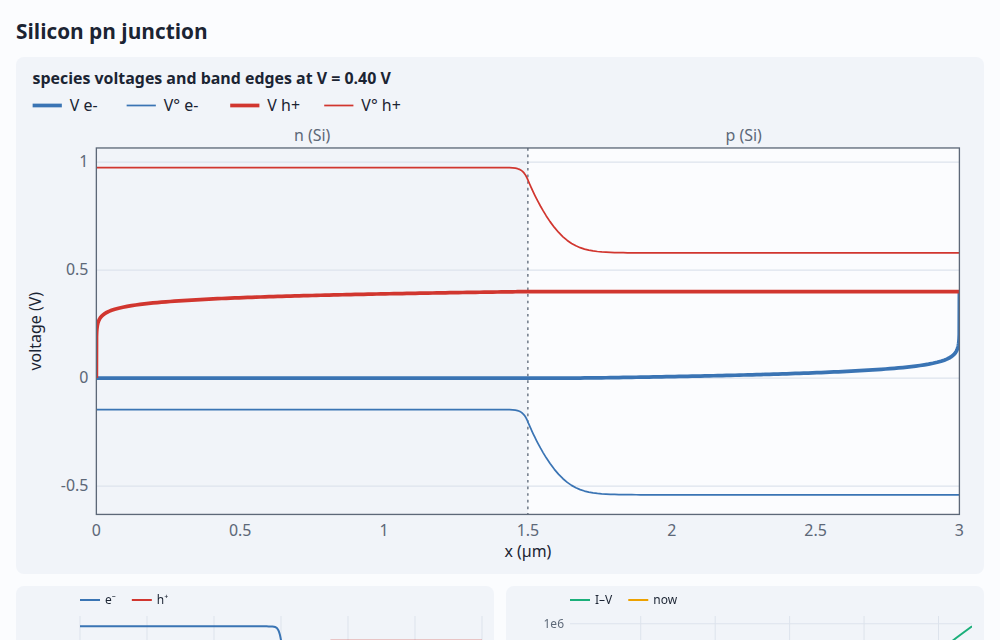
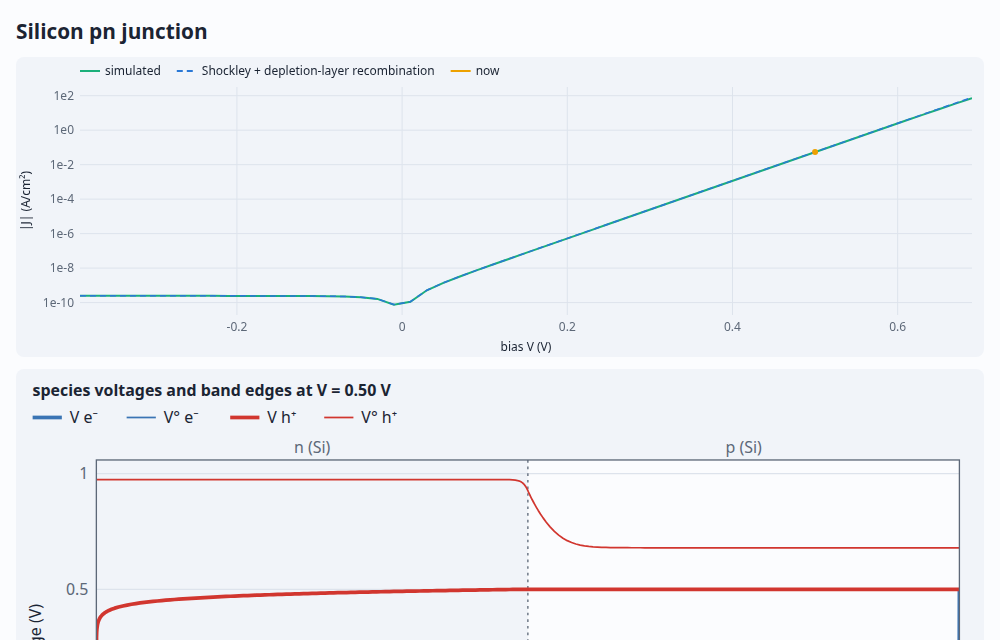
pn demo: a lifetime control from short diode to long, the I–V against Shockley's law, aligned carrier densities

diff --git a/demos/pn.html b/demos/pn.html
@@ -9,77 +9,111 @@
 <body>
 <main>
   <h1>Silicon pn junction</h1>
-  <p>Electrons and holes are ordinary species. Solid lines are their species voltages
-    V<sub>i</sub> = μ̄<sub>i</sub>/(z<sub>i</sub>F), the quasi-Fermi levels; dashed lines are their standard
+  <p>Electrons and holes are ordinary species. Thick lines are their species voltages
+    V<sub>i</sub> = μ̄<sub>i</sub>/(z<sub>i</sub>F), the quasi-Fermi levels; thin lines are their standard
     levels V°<sub>i</sub>, the band edges (in voltage units the conduction band sits below the valence band).
-    The bias moves the p side's metal contact: forward bias splits the quasi-Fermi levels across the junction,
-    and the carriers recombine as they cross.</p>
+    The bias moves the p side's metal contact: forward bias splits the quasi-Fermi levels across the
+    junction, and the carriers recombine as they cross, in the layers or at the contacts.</p>
+  <p>The lifetime control sets band-to-band recombination. With a long lifetime the minority carriers'
+    diffusion length L far exceeds the 1.5 µm layers: they cross to the contacts and recombine there (a short
+    diode). With a short one, L shrinks below the layer
+    thickness and they recombine inside (a long diode). Shockley's law covers both, with the current
+    J₀(e<sup>V/V<sub>T</sub></sup> − 1) and J₀ = qn<sub>i</sub>²[D<sub>n</sub>/(N<sub>A</sub>L<sub>n</sub>) coth(W<sub>p</sub>/L<sub>n</sub>) + D<sub>p</sub>/(N<sub>D</sub>L<sub>p</sub>) coth(W<sub>n</sub>/L<sub>p</sub>)],
+    plus the recombination in the depletion layer (dashed). It holds to a few percent until the current is
+    large, where series resistance and rising injection bend the curve below it.</p>
   <div class="controls">
     <label>bias V <input id="V" type="range" min="-1" max="0.7" step="0.01" value="0.3"><output id="Vout"></output></label>
+    <label>lifetime <input id="kf" type="range" min="8" max="12" step="0.5" value="8"><output id="kfOut"></output></label>
     <span class="readout" id="I"></span>
   </div>
   <div class="grid">
+    <canvas class="wide" id="iv"></canvas>
     <div class="levels wide" id="levels"></div>
-    <canvas id="conc"></canvas>
-    <canvas id="iv"></canvas>
+    <div class="levels wide" id="conc"></div>
   </div>
 </main>
 <script type="module">
-import { Device, units } from '../src/index.js';
+import { Device, units, EPS0, FARADAY, GAS_CONSTANT, AVOGADRO } from '../src/index.js';
 import { build, layer, ohmic, semiconductor, live } from '../src/kit.js';
 import { chart, colors } from './plot.js';
-import { levels, showCode, fromQuery, speciesColor } from './common.js';
+import { levels, profiles, showCode, fromQuery } from './common.js';
 
+const Si = semiconductor('Si'), W = units.um(1.5), ND = units.perCm3(1e17), NA = units.perCm3(1e16);
+const recombination = (kf) => [{ equation: 'e- + h+ = 0', kf: { Si: kf } }]; // band to band
 // The device, as it's drawn: a contact, n-type silicon, p-type silicon, a contact.
-const def = build({
-  T: 300, // the library's silicon data (Sze) are for 300 K
-  library: [semiconductor('Si')],
-  stack: [
-    ohmic(0), // e⁻ and h⁺ in equilibrium with the metal
-    layer('Si', units.um(1.5), { name: 'n', donors: units.perCm3(1e17) }),
-    layer('Si', units.um(1.5), { name: 'p', acceptors: units.perCm3(1e16) }),
-    ohmic(0), // its voltage is the bias
-  ],
-  // Band-to-band recombination: a minority lifetime τ = 1/(kf·N) ≈ 0.6 µs at 1e16 cm⁻³.
-  bulkReactions: [{ equation: 'e- + h+ = 0', kf: { Si: 1e8 } }],
-  grid: { hmin: units.nm(0.5), hmax: units.nm(15) },
-});
+const diode = (kf) =>
+  build({
+    T: 300, // the library's silicon data (Sze) are for 300 K
+    library: [Si],
+    stack: [
+      ohmic(0), // e⁻ and h⁺ in equilibrium with the metal
+      layer('Si', W, { name: 'n', donors: ND }),
+      layer('Si', W, { name: 'p', acceptors: NA }),
+      ohmic(0), // its voltage is the bias
+    ],
+    bulkReactions: recombination(kf),
+    grid: { hmin: units.nm(0.5), hmax: units.nm(15) },
+  });
 
-// The I–V curve, once: a plain Device swept in bias, each solve warm from the last.
-const sweep = new Device(def), iv = { V: [], I: [] };
-for (let V = -0.39; V <= 0.701; V += 0.02) {
-  sweep.set({ contacts: { right: { V } } });
-  iv.V.push(V);
-  iv.I.push(Math.abs(sweep.solve().current));
+// Shockley's law, for any diffusion length, plus band-to-band recombination in the depletion layer
+// (where np = n_i² e^{V/V_T} too). n_i² = N_c N_v e^{−E_g/kT} from the library's data.
+const VT = (GAS_CONSTANT * 300) / FARADAY, { 'e-': el, 'h+': ho } = Si.materials.Si.species;
+const ni2 = el.cRef * ho.cRef * Math.exp(-(ho.mu0 - el.mu0) / (GAS_CONSTANT * 300));
+const shockley = (V, kf) => {
+  const Vbi = VT * Math.log((ND * NA) / ni2), eps = Si.materials.Si.epsr * EPS0;
+  const Wd = Math.sqrt(((2 * eps * Math.max(Vbi - V, 0.05)) / FARADAY) * (1 / NA + 1 / ND));
+  const [xn, xp] = [(Wd * NA) / (NA + ND), (Wd * ND) / (NA + ND)];
+  const Ln = Math.sqrt(el.D / (kf * NA)), Lp = Math.sqrt(ho.D / (kf * ND)), coth = (u) => 1 / Math.tanh(u);
+  const J0 = FARADAY * ni2 * ((el.D / (NA * Ln)) * coth((W - xp) / Ln) + (ho.D / (ND * Lp)) * coth((W - xn) / Lp) + kf * Wd);
+  return J0 * (Math.exp(V / VT) - 1);
+};
+
+const bias = document.getElementById('V'), life = document.getElementById('kf');
+fromQuery(bias);
+fromQuery(life);
+const kf = () => 10 ** +life.value; // mol⁻¹·m³/s
+
+// The I–V curve: a plain Device swept in bias, each solve warm from the last. The current flows
+// toward −x under forward bias (from the p side's contact to the n side's).
+let iv;
+function sweep() {
+  const dev = new Device(diode(kf()));
+  iv = { V: [], J: [], theory: [] };
+  for (let V = -0.39; V <= 0.701; V += 0.02) {
+    dev.set({ contacts: { right: { V } } });
+    iv.V.push(V);
+    iv.J.push(Math.abs(dev.solve().current) / 1e4); // A/cm²
+    iv.theory.push(Math.abs(shockley(V, kf())) / 1e4);
+  }
 }
+sweep();
 
 // live() solves each change warm from the last, merging slider moves made during a solve.
-const dev = live(def, { onsolution: draw });
-const slider = document.getElementById('V');
-fromQuery(slider);
-slider.addEventListener('input', () => dev.set({ contacts: { right: { V: +slider.value } } }));
-dev.set({ contacts: { right: { V: +slider.value } } });
+const dev = live(diode(kf()), { onsolution: draw });
+const update = () => dev.set({ contacts: { right: { V: +bias.value } }, bulkReactions: recombination(kf()) });
+bias.addEventListener('input', update);
+life.addEventListener('change', () => {
+  sweep();
+  update();
+});
+update();
 
 function draw(sol, info) {
-  const V = sol.terminals.right.V;
+  const V = sol.terminals.right.V, tau = 1 / (kf() * NA), Ln = Math.sqrt(el.D * tau);
   document.getElementById('Vout').textContent = `${V.toFixed(2)} V`;
+  document.getElementById('kfOut').textContent = `τₙ ${tau < 1e-6 ? `${(tau * 1e9).toPrecision(2)} ns` : `${(tau * 1e6).toPrecision(2)} µs`}, Lₙ ${(Ln * 1e6).toPrecision(2)} µm`;
   document.getElementById('I').textContent =
-    `I = ${sol.current.toExponential(2)} A/m² toward +x · ${info.ms.toFixed(1)} ms` + (info.failed ? ' · (no solution here)' : '');
-  levels(document.getElementById('levels'), sol, { title: `species voltages and band edges at V = ${V.toFixed(2)} V` });
-  chart(document.getElementById('conc'), {
-    xscale: 1e6, xlabel: 'x (µm)', ylabel: 'concentration (mol/m³)', logy: true,
-    series: [
-      { x: sol.x, y: sol.c['e-'], color: speciesColor(sol, 'e-'), label: 'e⁻' },
-      { x: sol.x, y: sol.c['h+'], color: speciesColor(sol, 'h+'), label: 'h⁺' },
-    ],
-  });
+    `|J| = ${(Math.abs(sol.current) / 1e4).toExponential(2)} A/cm² · Shockley ${(Math.abs(shockley(V, kf())) / 1e4).toExponential(2)} · ${info.ms.toFixed(1)} ms` + (info.failed ? ' · (no solution here)' : '');
   chart(document.getElementById('iv'), {
-    xlabel: 'bias V (V)', ylabel: '|I| (A/m²)', logy: true,
+    xlabel: 'bias V (V)', ylabel: '|J| (A/cm²)', logy: true,
     series: [
-      { x: iv.V, y: iv.I, color: colors[2], label: 'I–V' },
-      { x: [V], y: [Math.abs(sol.current)], color: colors[3], marker: true, width: 0, label: 'now' },
+      { x: iv.V, y: iv.J, color: colors[2], label: 'simulated' },
+      { x: iv.V, y: iv.theory, color: colors[0], dash: [6, 4], width: 1.5, label: 'Shockley + depletion-layer recombination' },
+      { x: [V], y: [Math.abs(sol.current) / 1e4], color: colors[3], marker: true, width: 0, label: 'now' },
     ],
   });
+  levels(document.getElementById('levels'), sol, { title: `species voltages and band edges at V = ${V.toFixed(2)} V` });
+  profiles(document.getElementById('conc'), sol, { species: ['e-', 'h+'], title: 'carrier densities', ylabel: 'density (cm⁻³)', scale: AVOGADRO * 1e-6, log: true });
 }
 showCode();
 </script>

diff --git a/demos/index.html b/demos/index.html
@@ -15,7 +15,7 @@
 
   <h2>Semiconductors</h2>
   <div class="cards">
-    <a class="card" href="pn.html"><img src="screenshots/pn.png" alt="pn junction level diagram"><div><b>pn junction</b><span>Quasi-Fermi levels and band edges under bias; the I–V curve.</span></div></a>
+    <a class="card" href="pn.html"><img src="screenshots/pn.png" alt="pn junction level diagram"><div><b>pn junction</b><span>Quasi-Fermi levels and band edges under bias; the I–V curve against Shockley, short diode to long.</span></div></a>
     <a class="card" href="solar.html"><img src="screenshots/solar.png" alt="solar cell"><div><b>Solar cell</b><span>Photogeneration from a photon reservoir: J–V, V<sub>oc</sub>, fill factor, and the split quasi-Fermi levels.</span></div></a>
     <a class="card" href="mos.html"><img src="screenshots/mos.png" alt="MOS capacitor"><div><b>MOS capacitor</b><span>Accumulation, depletion and inversion under a metal gate; the low-frequency C–V curve.</span></div></a>
   </div>
